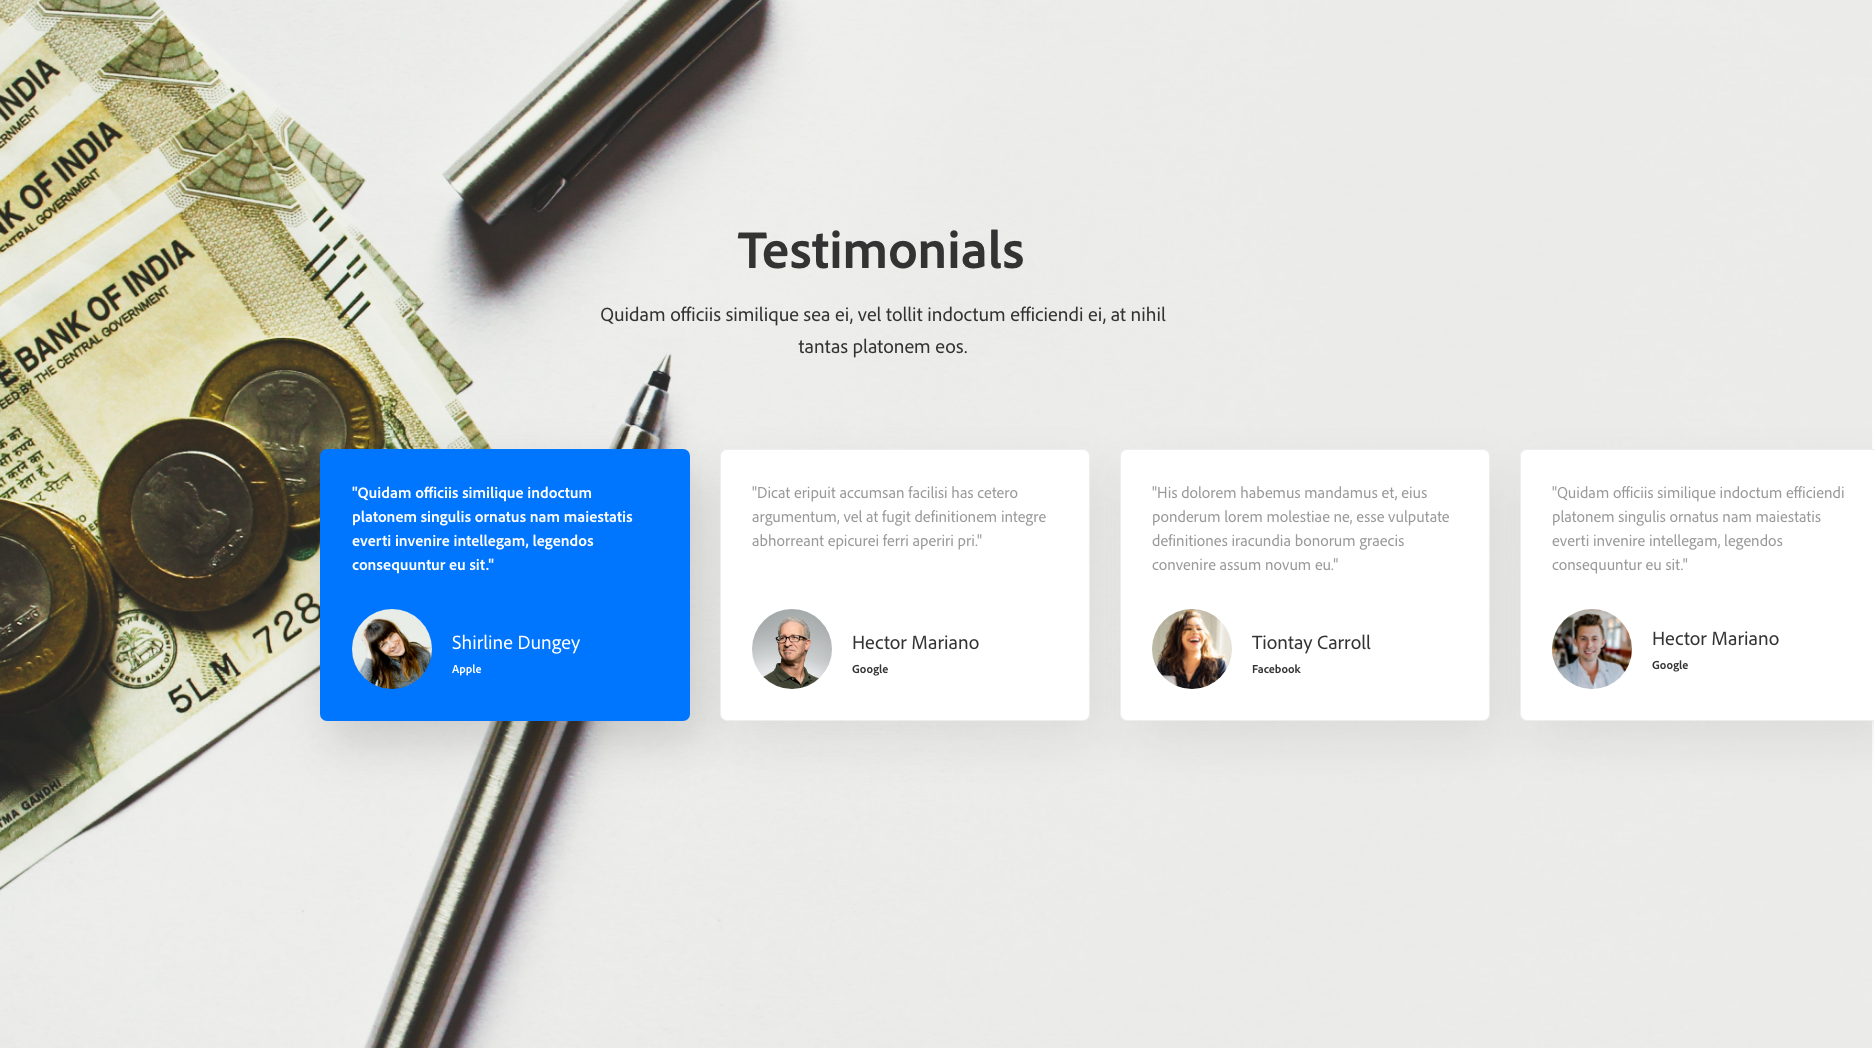
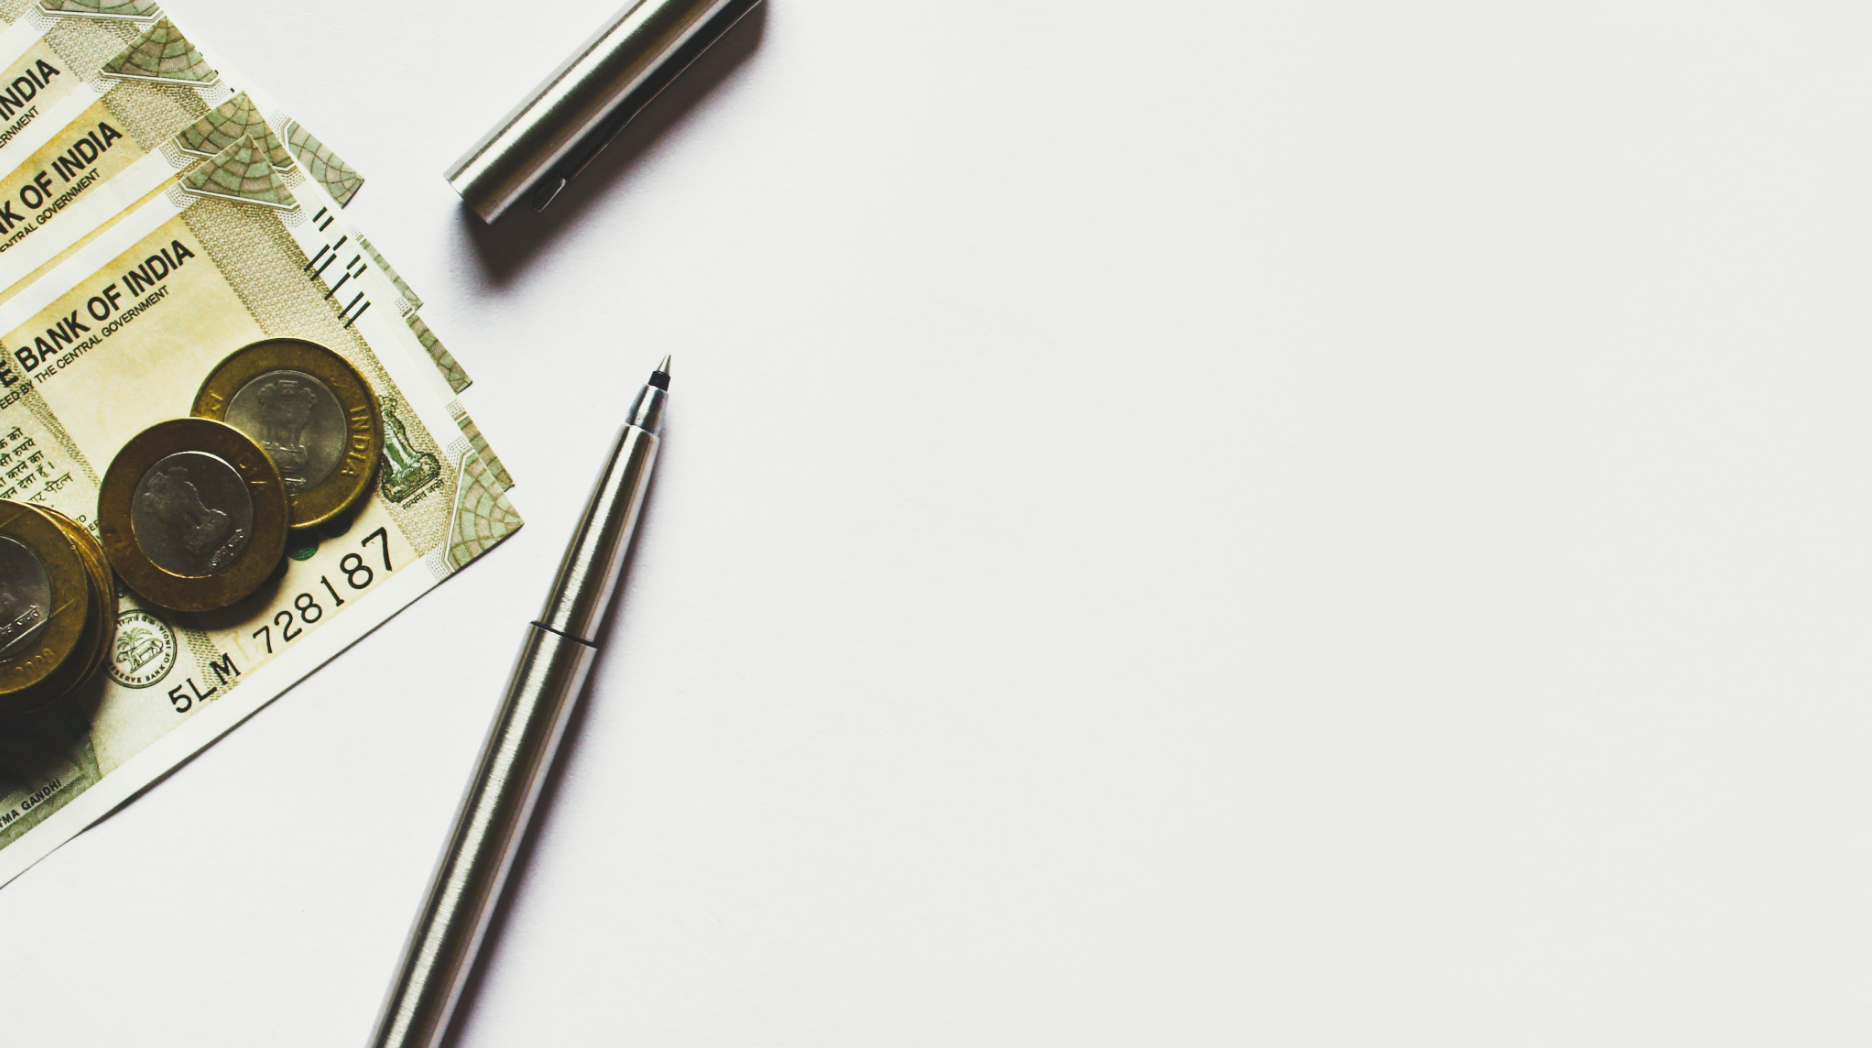
section secondshi clickze gavaswore. section third movrchi magram corussel ar mushaobs gasasworebelia

diff --git a/main.js b/main.js
@@ -169,7 +169,8 @@ function createBox() {
         // rightBox.appendChild(boxRightContainer);
         // rightContainer.appendChild(rightBox); 
 
-        profileAvatar.addEventListener("click", () => {
+        profileAvatar.addEventListener("click", (e) => {
+
 
             let avatar1 = document.createElement("img");
             avatar1.classList.add("profileAvatar");
@@ -178,16 +179,24 @@ function createBox() {
 
             rightBox.appendChild(avatar1);
 
+            let boxRightContainer1 = document.createElement("div");
+            let profileText1 = document.createElement("div");
+
+            profileText1.classList.add("profileText");
+
+            let media1 = document.createElement("div");
+            media1.classList.add("medias")
+
             let profileName1 = document.createElement("p");
             profileName1.innerText = item.name;
-            profileText.appendChild(profileName1);
-            rightBox.appendChild(profileName1);
+            profileText1.appendChild(profileName1);
 
 
             let profilePosition1 = document.createElement("p");
             profilePosition1.innerText = item.position;
-            profileText.appendChild(profilePosition1);
-            rightBox.appendChild(profilePosition1);
+
+            profileText1.appendChild(profilePosition1);
+            boxRightContainer1.appendChild(profileText1);
 
             let fburl1 = document.createElement("a");
             let fbImg1 = document.createElement("img");
@@ -195,7 +204,7 @@ function createBox() {
             fburl1.target = "_blank";
             fbImg1.src = item.media.facebook.img;
             fburl1.appendChild(fbImg1);
-            rightBox.appendChild(fburl1)
+            media1.appendChild(fburl1)
 
 
             let twiturl1 = document.createElement("a");
@@ -204,7 +213,7 @@ function createBox() {
             twiturl1.target = "_blank";
             twitImg1.src = item.media.twiter.img;
             twiturl1.appendChild(twitImg1);
-            rightBox.appendChild(twiturl1);
+            media1.appendChild(twiturl1);
 
 
             let insturl1 = document.createElement("a");
@@ -213,7 +222,11 @@ function createBox() {
             insturl1.target = "_blank";
             instImg1.src = item.media.instagram.img;
             insturl1.appendChild(instImg1);
-            rightBox.appendChild(insturl1);
+            media1.appendChild(insturl1);
+
+            boxRightContainer1.appendChild(media1);
+            rightBox.appendChild(boxRightContainer1);
+
 
 
 
@@ -223,7 +236,15 @@ function createBox() {
 
             rightContainerImg.style.display = "none";
 
-            rightBox.style.display = "flex";
+            rightBox.style.display = "grid";
+
+
+            if (rightBox.firstChild) {
+                rightBox.innerHTML = '';
+                rightBox.appendChild(avatar1);
+                rightBox.appendChild(boxRightContainer1);
+                profileText1.style.textAlign = "center";
+            }
         })
 
 
@@ -232,11 +253,117 @@ function createBox() {
 createBox();
 
 
+let data = [
+    {
+        txt: 'Quidam officiis similique indoctum platonem singulis ornatus nam maiestatis everti invenire intellegam, legendos consequuntur eu sit.',
+        img: './imgs/third1.png',
+        txt1: 'Shirline Dungey',
+        txt2: 'Apple'
+
+    },
+    {
+        txt: 'Quidam officiis similique indoctum platonem singulis ornatus nam maiestatis everti invenire intellegam, legendos consequuntur eu sit.',
+        img: './imgs/third2.png',
+        txt1: 'Hector Mariano',
+        txt2: 'Google'
+
+    },
+    {
+        txt: 'Quidam officiis similique indoctum platonem singulis ornatus nam maiestatis everti invenire intellegam, legendos consequuntur eu sit.',
+        img: './imgs/third3.png',
+        txt1: 'Tiontay Carroll',
+        txt2: 'Facebook'
+
+    },
+    {
+        txt: 'Quidam officiis similique indoctum platonem singulis ornatus nam maiestatis everti invenire intellegam, legendos consequuntur eu sit.',
+        img: './imgs/third4.png',
+        txt1: 'Hector Mariano',
+        txt2: 'Google'
+
+    },
+
+    {
+        txt: 'Quidam officiis similique indoctum platonem singulis ornatus nam maiestatis everti invenire intellegam, legendos consequuntur eu sit.',
+        img: './imgs/third1.png',
+        txt1: 'Dungey',
+        txt2: 'Apple'
+
+    },
+    {
+        txt: 'Quidam officiis similique indoctum platonem singulis ornatus nam maiestatis everti invenire intellegam, legendos consequuntur eu sit.',
+        img: './imgs/third2.png',
+        txt1: 'Shirline Dungey',
+        txt2: 'Apple'
+
+    },
+    {
+        txt: 'Quidam officiis similique indoctum platonem singulis ornatus nam maiestatis everti invenire intellegam, legendos consequuntur eu sit.',
+        img: './imgs/third3.png',
+        txt1: 'Shirline Dungey',
+        txt2: 'Apple'
+
+    },
+    {
+        txt: 'Quidam officiis similique indoctum platonem singulis ornatus nam maiestatis everti invenire intellegam, legendos consequuntur eu sit.',
+        img: './imgs/third4.png',
+        txt1: 'Shirline Dungey',
+        txt2: 'Apple'
+
+    },]
+
+
+let cards = document.querySelector(".cards");
+
+function creatCard() {
+    data.map((item, index) => {
+        let card = document.createElement("div");
+        card.classList.add("card");
+        card.classList.add("card"+index);
+        let cardText = document.createElement("p")
+        let cardProfile = document.createElement("div");
+        cardProfile.classList.add("card-profile");
+        let cardAvatar = document.createElement("img");
+        let cardInfo = document.createElement("div");
+        cardInfo.classList.add("card-info");
+        let cardInfoTitle = document.createElement("p");
+        let cardInfoDescription = document.createElement("p");
+        cardInfo.appendChild(cardInfoTitle);
+        cardInfo.appendChild(cardInfoDescription);
+        cardProfile.appendChild(cardAvatar);
+        cardProfile.appendChild(cardInfo);
+        card.appendChild(cardText);
+        card.appendChild(cardProfile);
+
+
+        cardText.innerText = item.txt;
+        cardAvatar.src = item.img;
+        cardInfoTitle.innerText = item.txt1
+        cardInfoDescription.innerText = item.txt2
+
+        cards.appendChild(card)
+
+    })
+}
+
+creatCard()
+
+
+function goLeft() {
+    for (let i = 0; i < cards.length; i++) {
+        let card = document.querySelector(`.card${i}`)
+        let firstCard = document.querySelector('.card0')
+        if (firstCard.getBoundingClientRect().left == 0) {
+            card.style.left = `${card.style.width * i - ((cards.length - 1) * card.style.width)}px`
+        } else {
+            let leftBefore = card.getBoundingClientRect().left
+            let left = `${leftBefore + card.style.width}px`
+            card.style.left = left
+        }
+    }
+}
+goLeft()
 
 
 
 
-
-
-// profileAvatar.addEventListener("click", () => {
-//     

diff --git a/style.css b/style.css
@@ -138,6 +138,7 @@ header h1 {
 
     background-image: linear-gradient(to right, #FF8B00, #ff8c008e, #ff8c008e, #FF8B00);
     width: 100%;
+    height: 1000px;
     display: grid;
     grid-template-columns: 1fr 1fr;
     align-items: center;
@@ -219,6 +220,11 @@ header h1 {
 .right-box {
     display: none;
     align-items: center;
+    display: grid;
+    grid-template-columns: 1fr;
+    row-gap: 24px;
+    padding: 20px;
+
 }
 
 
@@ -228,6 +234,73 @@ header h1 {
 .section-third {
     width: 100%;
     height: 1000px;
-    background-image: url(../BFSI/imgs/section-third.background.png);
+    background-image: url(./imgs/section-third.background.png);
     background-size: cover;
+}
+
+.section-third-text {
+    display: flex;
+    flex-direction: column;
+    align-items: center;
+}
+
+.section-third-text h1 {
+    font-size: 54px;
+    font-weight: bold;
+    margin-top: 250px;
+}
+
+.section-third-text p {
+    font-size: 20px;
+    margin-top: 20px;
+}
+
+
+
+.containers {
+    position: relative;
+    width: 100vw;
+    display: flex;
+    background-color: aqua;
+    overflow: hidden;
+    height: 50vh;
+}
+
+.colorBox {
+    position: absolute;
+    width: 20vw;
+    height: 50vh;
+    background-color: bisque;
+    display: flex;
+    justify-content: center;
+    align-items: center;
+    transition: all 1s linear;
+}
+
+.cards {
+    display: flex;
+    margin-top: 170px;
+    overflow: hidden;
+}
+
+.card {
+    display: flex;
+    flex-direction: column;
+    padding: 32px;
+    background-color: white;
+    margin-right: 24px;
+    transition: left 2s;
+    transition-timing-function: linear;
+}
+
+
+.card-profile {
+    display: flex;
+    margin-top: 30px;
+}
+
+.card-info {
+    display: flex;
+    flex-direction: column;
+    margin-left: 20px;
 }

diff --git a/index.html b/index.html
@@ -70,12 +70,16 @@
         </div>
     </div>
 
-<div class="section-third">
+    <div class="section-third">
+        <div class="section-third-text">
+            <h1>Testimonials</h1>
+            <p>Quidam officiis similique sea ei, vel tollit indoctum efficiendi ei, at nihil tantas platonem eos.</p>
+        </div>
+        <div class="cards">
 
 
-    
-</div>
-
+        </div>
+    </div>
 
 
 
